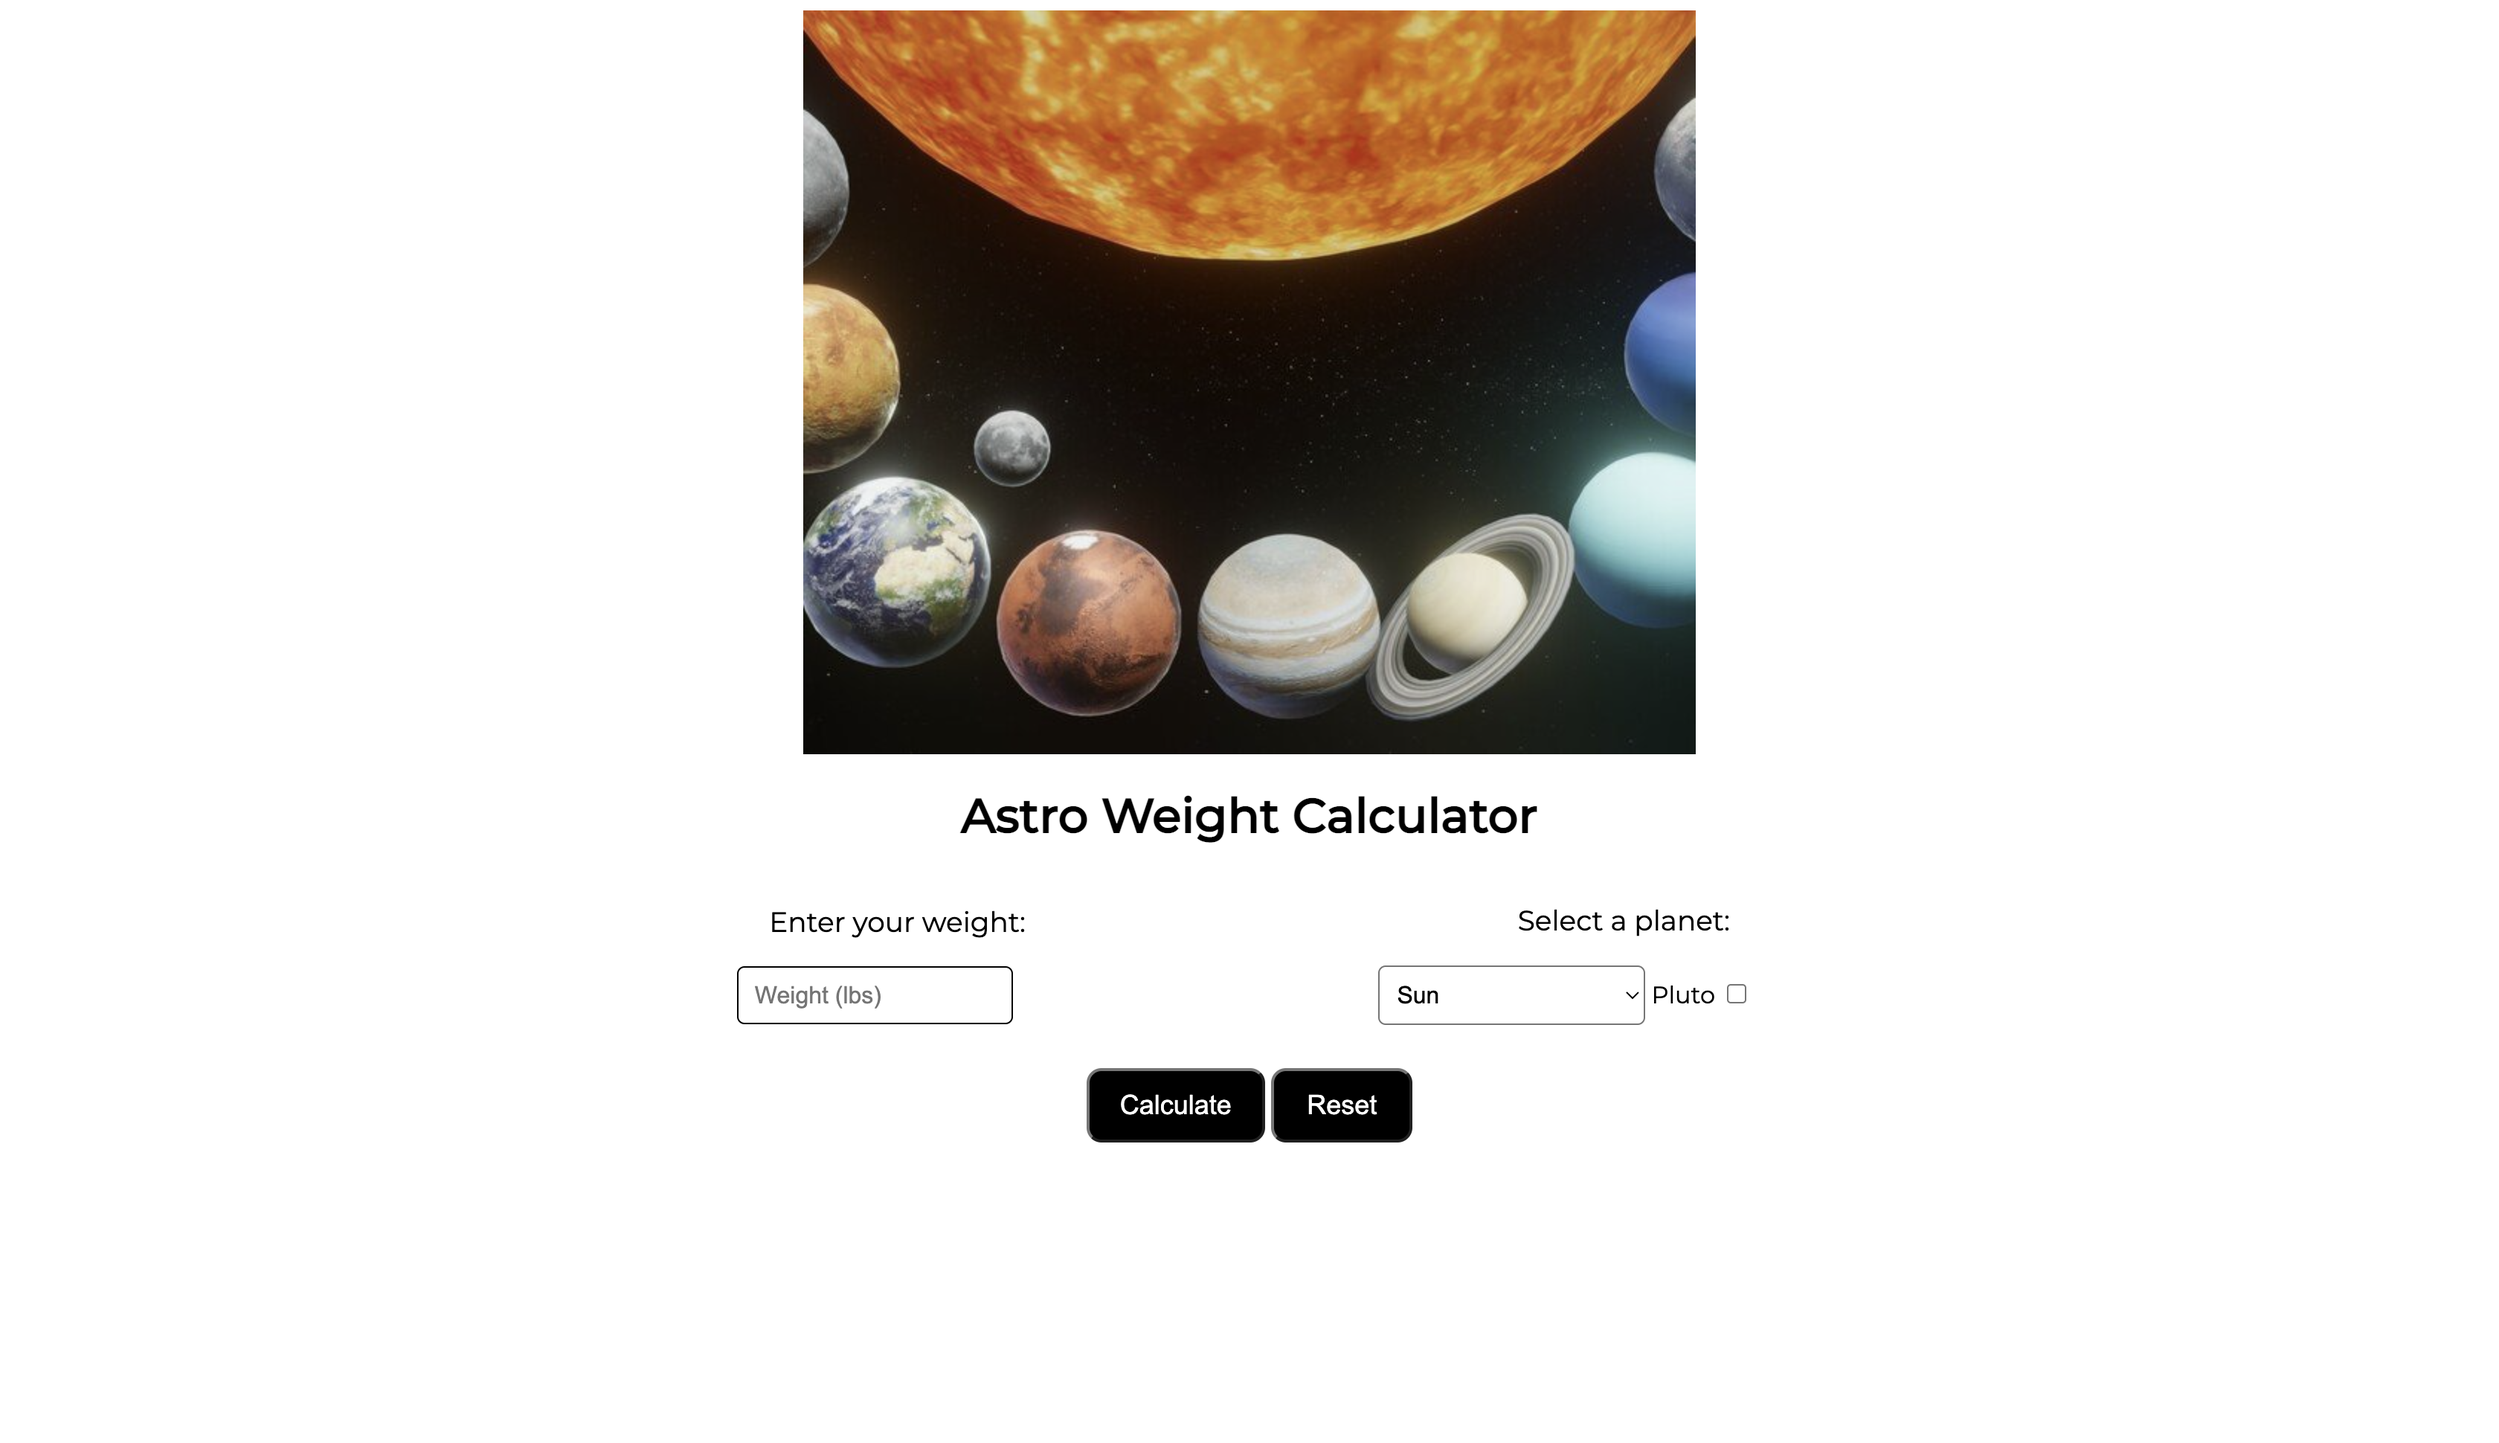
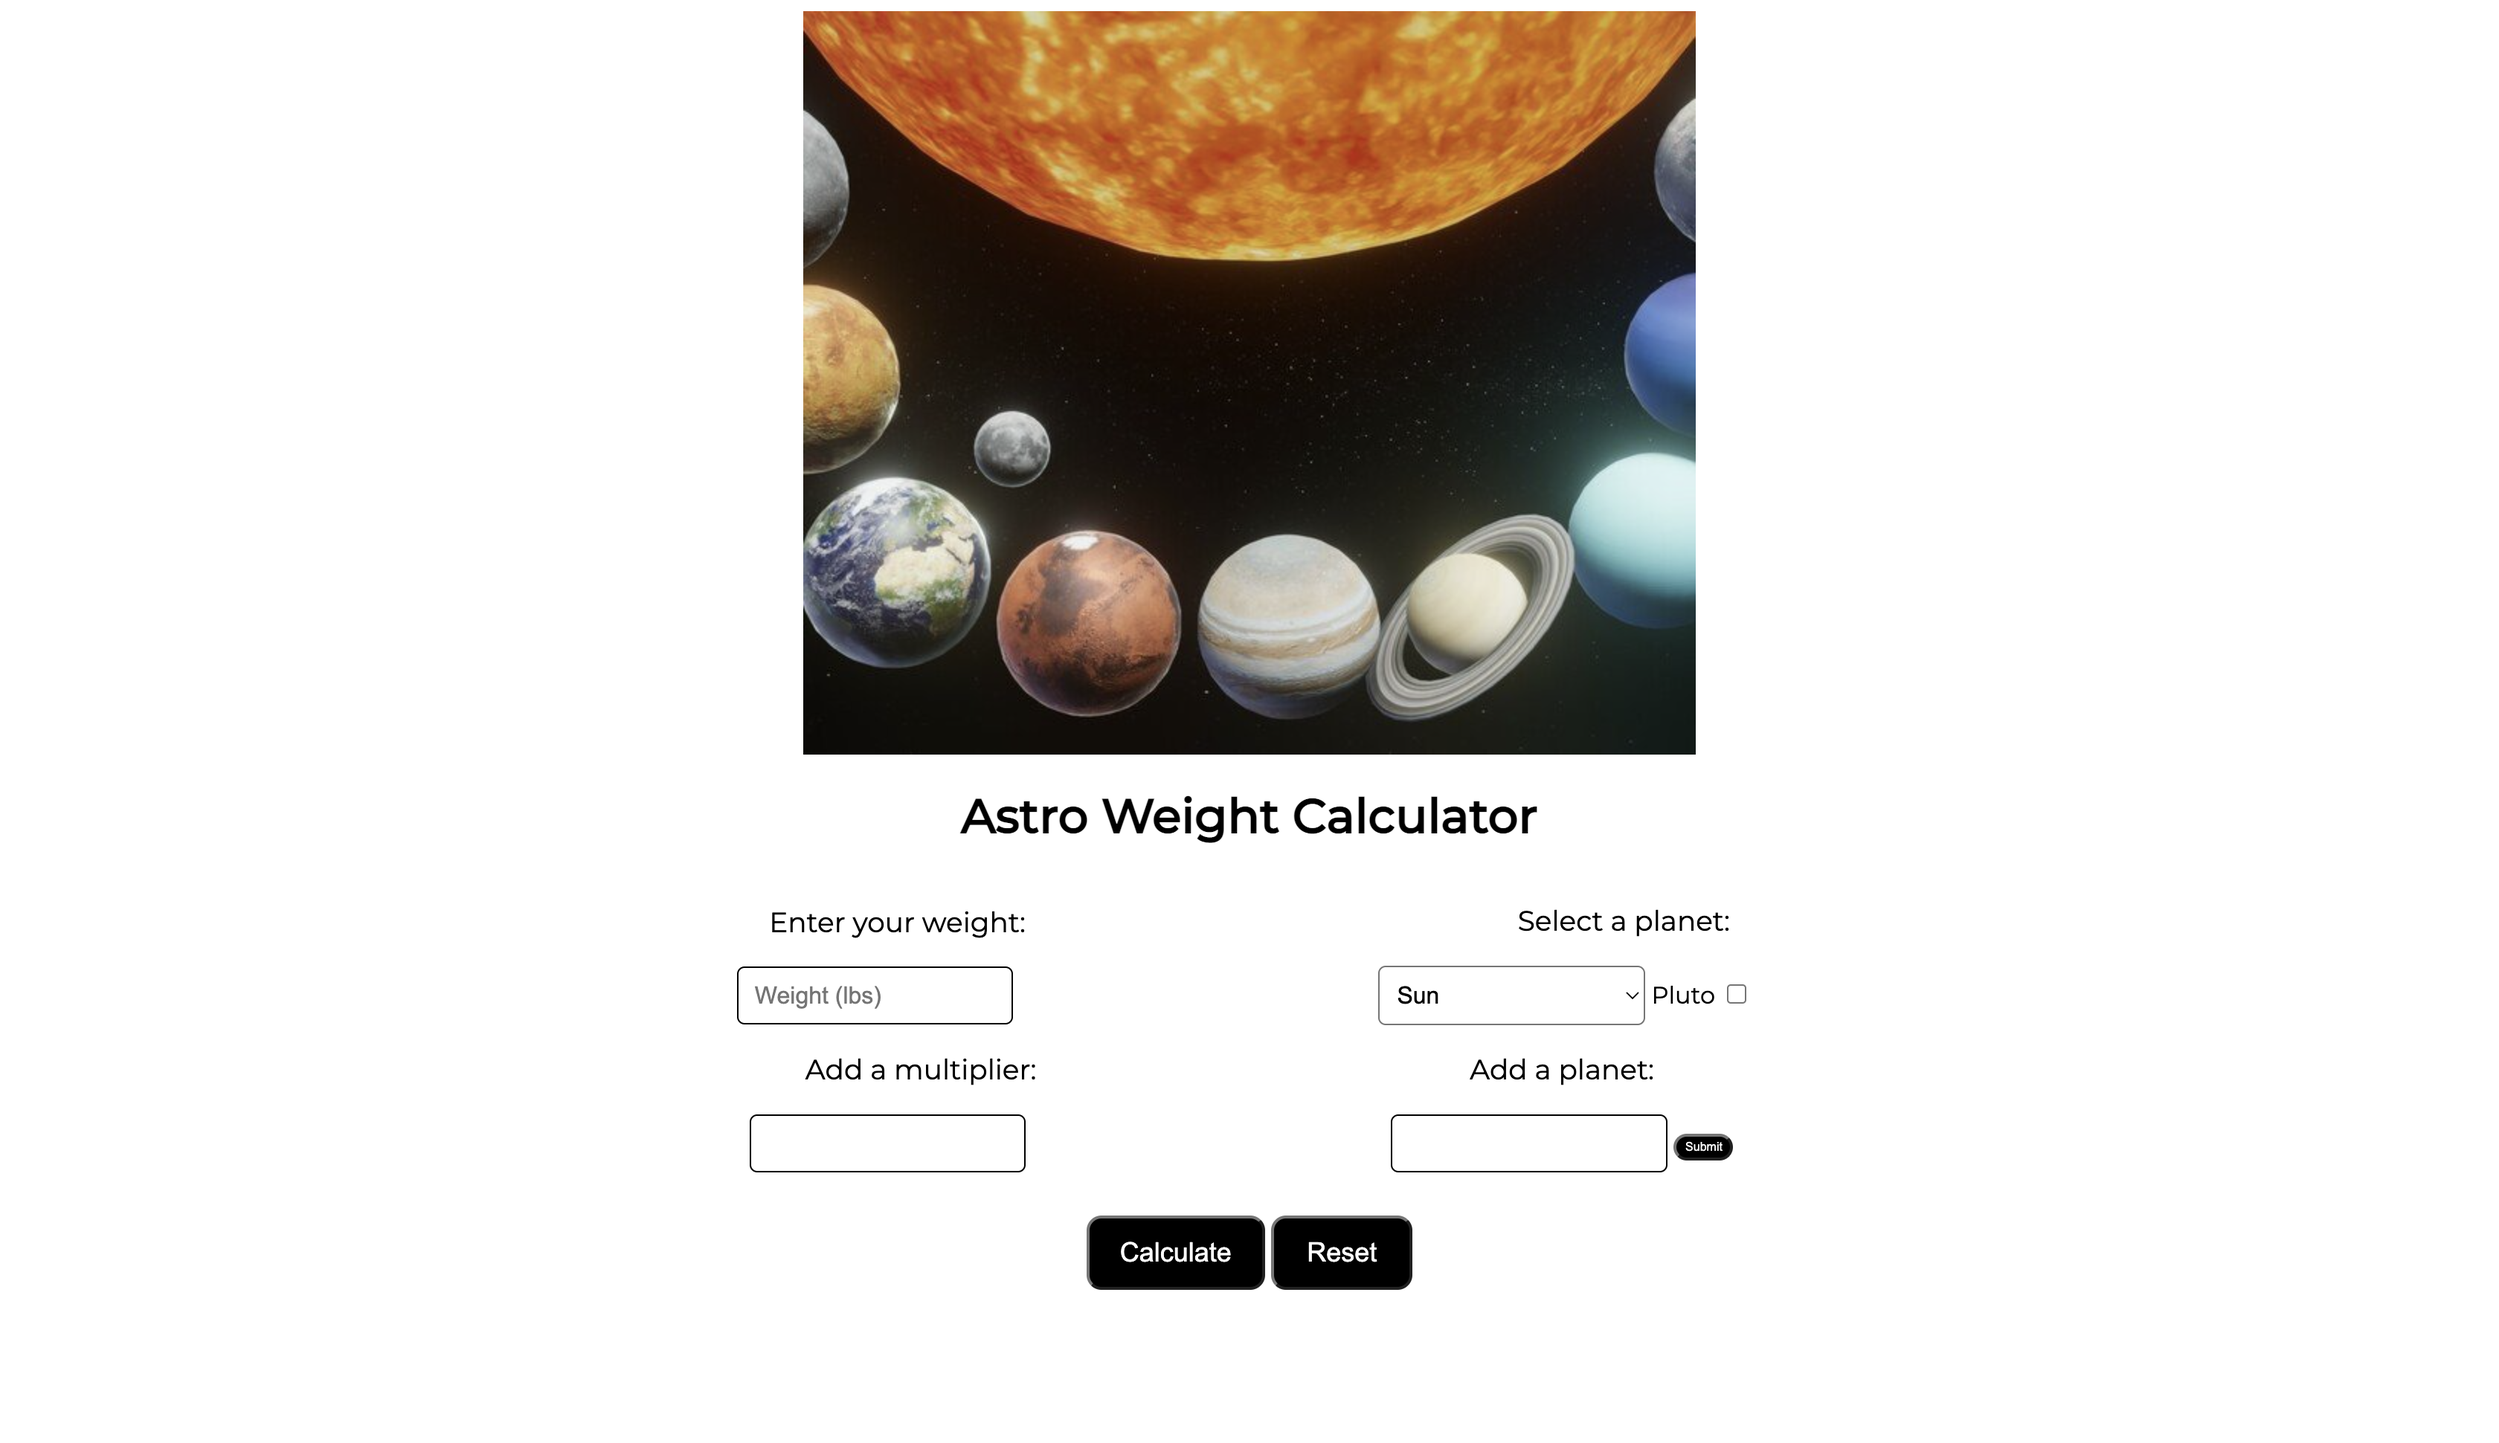
Update README.md, add and update project photos in assets folder, modify bonus challenge codes in main.js, index.html, and style.css

diff --git a/main.js b/main.js
@@ -72,13 +72,13 @@ function calculateWeight(weight, planetName) {
 
 // create a function that calculates the weight of instruments on new planet with its own multiplier
 
-// function calculateNewWeight(weight, multiplier) {
-//     // if multiplier for new planet is greater than or equal to 0
-//     if ( multiplier >= 0 ) {
-//         // calculate product of new planet's multiplier and weight
-//         return weight * multiplier;
-//     }
-// };
+function calculateNewWeight(weight, multiplier) {
+    // if multiplier for new planet is greater than or equal to 0
+    if ( multiplier >= 0 ) {
+        // calculate product of new planet's multiplier and weight
+        return weight * multiplier;
+    }
+};
 
 // create a function that responds when user clicks on calculate button
 
@@ -86,44 +86,44 @@ function calculateButton() {
     //  create variable called userWeight and assign value of user-weight
     let userWeight = document.getElementById("user-weight").value;
     //  create variable called multiplier and assign value of new-planet-multiplier
-    // let multiplier = document.getElementById("new-planet-multiplier").value;
+    let multiplier = document.getElementById("new-planet-multiplier").value;
     // create variable called planetName and assign name of selected planet from drop-down list
     let planetName = dropDown.value;
     // create variable called newPlanetName and assign name of new planet from drop-down list
-    // let newPlanetName = dropDown.value;
+    let newPlanetName = dropDown.value;
     // create variable called result and assign value of calculated weight
     let result = calculateWeight(userWeight, planetName);
     // create variable called newResult and assign value of calculated weight on new planet
-    // let newResult = calculateNewWeight(userWeight, multiplier);
+    let newResult = calculateNewWeight(userWeight, multiplier);
 
     // write code to display the message
-    document.getElementById("output").innerHTML = `If you were on ${planetName}, you would weigh ${result}lbs!`;
+    // document.getElementById("output").innerHTML = `If you were on ${planetName}, you would weigh ${result}lbs!`;
 
     // write code to display message, based on whether multiplier is less than or equal to 0
-    // if ( multiplier <= 0) {
-    //     document.getElementById("output").innerHTML = `If you were on ${planetName}, you would weigh ${result}lbs!`;
-    // } else {
-    //     document.getElementById("output").innerHTML = `If you were on ${newPlanetName}, you would weigh ${newResult}lbs!`;
-    // }
+    if ( multiplier <= 0) {
+        document.getElementById("output").innerHTML = `If you were on ${planetName}, you would weigh ${result}lbs!`;
+    } else {
+        document.getElementById("output").innerHTML = `If you were on ${newPlanetName}, you would weigh ${newResult}lbs!`;
+    }
 };
 
 // create a function that adds custom planet to drop-down list when user clicks on add planet button
 
-// function addPlanetButton() {
-//     // target input element with new-planet-name id
-//     let newPlanetName = document.getElementById("new-planet-name").value;
+function submitButton() {
+    // target input element with new-planet-name id
+    let newPlanetName = document.getElementById("new-planet-name").value;
 
-//     // if newPlanetName isn't "true"
-//     if ( newPlanetName != true ) {
-//         // add new planet to drop-down list
-//         let newPlanetOption = document.createElement("option");
-//         newPlanetOption.text = newPlanetName;
-//         newPlanetOption.value = newPlanetName;
-//         dropDown.appendChild(newPlanetOption);
-//     }
-//     // set new planet as default value in drop-down list
-//     dropDown.selectedIndex = 11;
-// };
+    // if newPlanetName isn't "true"
+    if ( newPlanetName != true ) {
+        // add new planet to drop-down list
+        let newPlanetOption = document.createElement("option");
+        newPlanetOption.text = newPlanetName;
+        newPlanetOption.value = newPlanetName;
+        dropDown.appendChild(newPlanetOption);
+    }
+    // set new planet as default value in drop-down list
+    dropDown.selectedIndex = dropDown.length - 1;
+};
 
 // create a function that clears output when user clicks on reset button
 
@@ -131,16 +131,16 @@ function resetButton() {
     // clear user-weight value
     document.getElementById("user-weight").value = '';
     // clear new-planet-name value
-    // document.getElementById("new-planet-name").value = '';
+    document.getElementById("new-planet-name").value = '';
     // clear new-planet-multiplier
-    // document.getElementById("new-planet-multiplier").value= '';
+    document.getElementById("new-planet-multiplier").value= '';
     // set first index as drop-down option
     dropDown.selectedIndex = 0;
     // add pluto back to drop-down list
-    let plutoOption = document.createElement("option");
-    plutoOption.text = planetName;
-    plutoOption.value = planetName;
-    dropDown.appendChild(plutoOption);
+    // let plutoOption = document.createElement("option");
+    // plutoOption.text = planetName;
+    // plutoOption.value = planetName;
+    // dropDown.appendChild(plutoOption);
     // clear pluto checkmark
     document.getElementById("pluto-checkbox").checked = false;
     // assign empty string to message
@@ -154,6 +154,6 @@ document.getElementById("calculate-button").addEventListener("click", calculateB
 // set #pluto-checkbox element's onclick method to use the removePluto function
 document.getElementById("pluto-checkbox").addEventListener("click", removePluto);
 // set #calculate-button element's onclick method to use the addPlanetButton function
-// document.getElementById("add-planet-button").addEventListener("click", addPlanetButton);
+document.getElementById("submit-button").addEventListener("click", submitButton);
 // set #reset-button element's onclick method to use resetButton function
 document.getElementById("reset-button").addEventListener("click", resetButton);

diff --git a/index.html b/index.html
@@ -28,7 +28,7 @@
         </label>
       </div>
 
-      <!-- <div id="customize-planets">
+      <div id="customize-planets">
         <div class="input">
           <h3 id="multiplier-text">Add a multiplier:</h3>
           <input id="new-planet-multiplier" type="text"/>
@@ -37,9 +37,9 @@
         <div class="input">
           <h3>Add a planet:</h3>
           <input id="new-planet-name" type="text"/>
-          <button id="add-planet-button" style="cursor:pointer">Submit</button>
+          <button id="submit-button" style="cursor:pointer">Submit</button>
         </div>
-      </div> -->
+      </div>
 
       <div class="output">
         <p id="output"></p>

diff --git a/style.css b/style.css
@@ -53,7 +53,7 @@ select {
     text-indent: 5%;
 }
 
-/* #customize-planets {
+#customize-planets {
     margin-left: 4%;
     width: 90%;
 }
@@ -66,11 +66,11 @@ select {
     width: 40%
 }
 
-#add-planet-button {
+#submit-button {
     height: 18px;
-    width: 14.5%;
-    font-size: 9px;
-} */
+    width: 40px;
+    font-size: 8px;
+}
 
 .output {
     display: inline-block;

diff --git a/README.md b/README.md
@@ -1,2 +1,3 @@
 ![Project photo #1](assets/astroweight_calc.png)
 ![Project photo #2](assets/astroweight_calc2.png)
+![Project photo #3](assets/astroweight_calc3.png)
